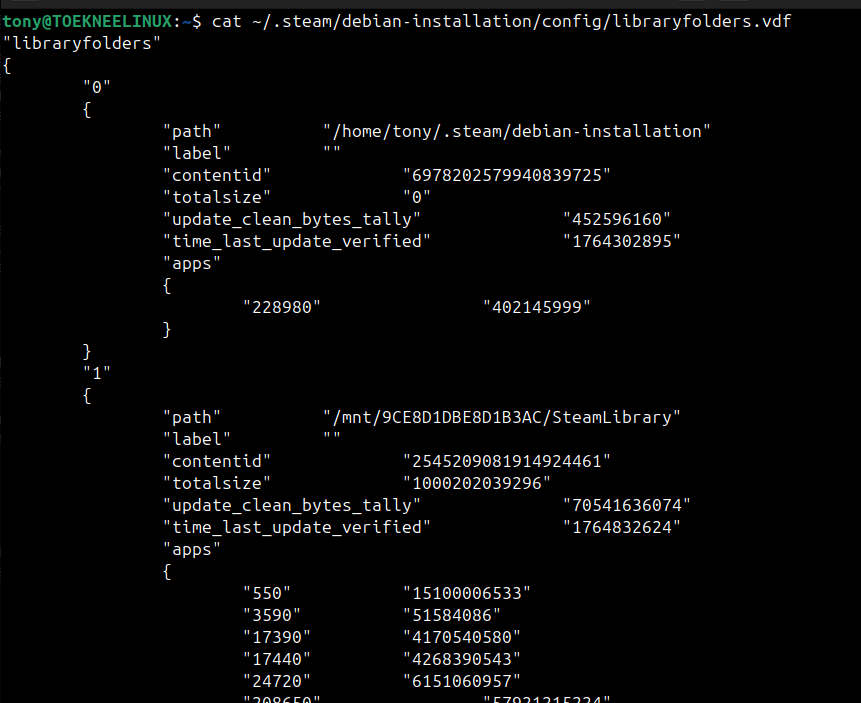
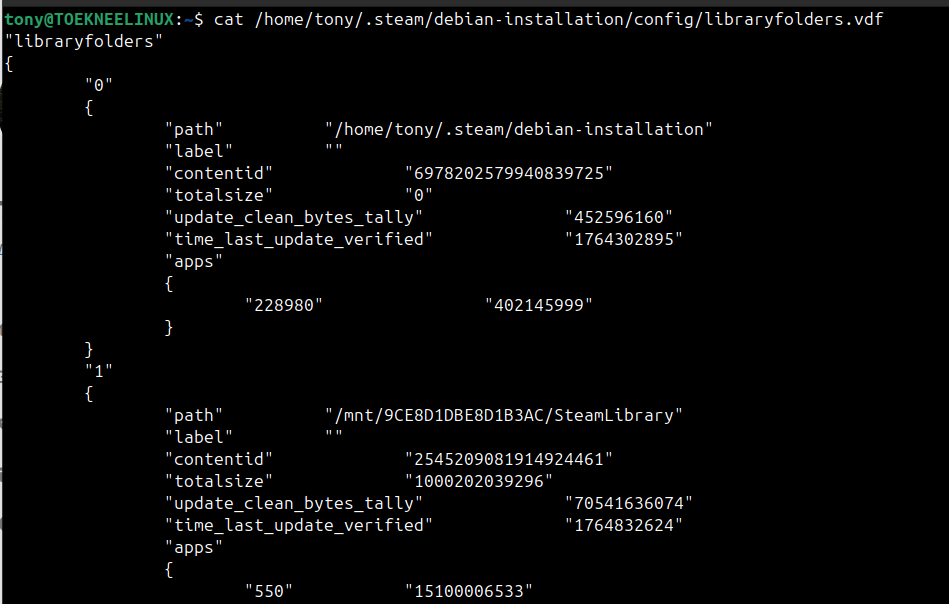
Improve Steam Linux NTFS post with more accurate info

diff --git a/_posts/2025-12-16-ntfs-steam-library.md b/_posts/2025-12-16-ntfs-steam-library.md
@@ -1,6 +1,6 @@
 ---
 # ===== Required =====
-title: "Run Steam Games from Windows drive (NTFS) on Linux (Ubuntu)"
+title: "Run Steam Games on a NTFS disk with Linux"
 date: 2025-12-16 22:00:00 -0600
 
 # Max 2 levels only
@@ -11,67 +11,90 @@ tags: [Steam, Linux, Windows, Games]
 
 # ===== Chirpy Features =====
 toc: true           # Table of contents
-math: true          # LaTeX equations
-mermaid: true       # Flow diagrams
+math: false          # LaTeX equations
+mermaid: false       # Flow diagrams
 pin: false          # Pin to homepage (true/false)
 
 ---
+## Introduction
+This blog contains diagnose and fix for Steam games stored on a NTFS formatted drive/disk that failed to launch on Linux.
+
+The fix also allow the same Steam games be run in both Linux and Windows (for dual booting system) without reinstalling the games.
 
 ## Background
 In recent updates, Microsoft brought a bunch of new AI features to Windows 11. They are not optional, take a ton of storage and somewhat make windows feel less stable and more bloated. I think Windows is moving toward to become a giant invasive data collecting and ads feeding software than being an Operating System. Not a welcome change in my opinion.
 
-I decided to dual booting Ubuntu 24.04.3 LTS alongside Windows 11 24H2, and gradually migrate away from Windows. One reason why I stick with Windows is the variety of games supported on the platform. But thank to Valve and the advancement of compatibility layer [Proton](https://en.wikipedia.org/wiki/Proton_(software)), many Windows games could be run flawlessly on Linux, high time to try gaming on this platform.
+I decided to dual booting Ubuntu 24.04.3 LTS alongside Windows 11 24H2, as an effort to gradually migrate away from Windows. One reason why I stick with Windows is the variety of games supported on the platform. But thank to Valve and the advancement of compatibility layer [Proton](https://en.wikipedia.org/wiki/Proton_(software)), many Windows games could be run flawlessly on Linux. Time to try them out.
 
 ## Overview
-I have 3 different drives, one for Ubuntu, one for Windows, and one for Steam Games Library (the drive is [NTFS](https://en.wikipedia.org/wiki/NTFS) formatted)
+I have 3 different physical drives in my PC, one for Ubuntu, one for Windows, and one for Steam games library. I was using Windows when I set up the Steam library drive and so the drive is formatted with Windows' default NTFS.
 
-I had:
-- Successfully installed Steam with:  ```sudo apt install steam```
-- Successfully had my games on NTFS drive recognized by Steam.
-- Successfully had Steam automatically install and setup runtime and Proton.
+During set up, I:
+- Successfully installed native Steam with:  ```sudo apt install steam```
+- Successfully had Steam recognize my game drive.
+- Successfully had Steam install and setup Proton and other necessary programs.
+- Successfully get the latest NVIDIA driver installed.
 
-Unfortunately, none of my game would launch out of the box...
+Unfortunately, none of my game would launch ...
 
 ## What is the problem?
-It turns out the NTFS drive is mounted to Ubuntu through [ntfs-3g](https://en.wikipedia.org/wiki/NTFS-3G) driver. Although ntfs-3g provides read and write permission to NTFS partition, it may not have fully support Linux filesystem semantics, including:
-- Executable (+x) permission bits
-- POSIX-compliant symbolic links
-- Case-sensitive paths
+[NTFS](https://en.wikipedia.org/wiki/NTFS) is a native Windows filesystem and enforces Windows naming rules. Windows and Linux use different filename conventions. When Linux creates files or folders that are invalid under Windows naming rules and stores them on a filesystem like NTFS, those files cannot be represented correctly. This can lead to read/write errors or application failures.
 
-Proton requires these features to run Windows games on Linux. The missing Linux semantics may cause Proton to fail to launch the game.
+Steam runs Windows games on Linux through Proton. Proton stores its runtime and configuration files in a folder called ```compatdata```. Because my Steam game library is located on an NTFS drive, Proton also created the ```compatdata``` directory on the NTFS partition.
+
+As a result, Proton attempted to store Linux-style runtime files on NTFS, which caused filesystem incompatibilities and prevented the game from launching.
 
 ## What is the fix?
-We want all executed files on an [EXT4](https://en.wikipedia.org/wiki/Ext4) (Linux native) partition, while keeping large game assets on NTFS.
-We can redirect Steam’s NTFS path to Steam's EXT4 path for execution via a [symlink](https://www.freecodecamp.org/news/symlink-tutorial-in-linux-how-to-create-and-remove-a-symbolic-link/).
+Instead of letting Proton write ```compatdata``` directly to NTFS, we could use [symlink](https://www.freecodecamp.org/news/symlink-tutorial-in-linux-how-to-create-and-remove-a-symbolic-link/) to redirect Proton to write to a ```compatdata``` on Linux [EXT4](https://en.wikipedia.org/wiki/Ext4) partition.
 
-### Identify Steam's paths
+Then do the following **4 steps**.
+
+### 1. Identify Steam's paths
 First we need to search for ```libraryfolders.vdf```, the file contains info on locations of game library folders, by running this command:
 
     find ~/ -type f -name "libraryfolders.vdf"
 
 ![Terminal Screenshot 2](assets/img/find_steam_lib_config.png)
 
-Pick the one under ```config``` folder, then use following command: 
+Pick the one under ```config``` folder, copy it and then use following command: 
     
-    cat ~/.steam/debian-installation/config/libraryfolders.vdf
-
+    cat <path to libraryfolders.vdf>
+    
 ![Terminal Screenshot 2](assets/img/steam_lib_paths.png)
 
 - The Steam's EXT4 path is: ```/home/tony/.steam/debian-installation```
 - The Steam's NTFS path is: ```/mnt/9CE8D1DBE8D1B3AC/SteamLibrary```
 
-### Create Symlink
+### 2. Remove NTFS compatdata folder
+Run this command (you may want to make a back up before remove)
 
-Before create symlink, remove the existing compatdata folder on NTFS (you may want to make a back up before remove):
+    rm -rf <Steam's NTFS path>/steamapps/compatdata
 
-    rm -rf /mnt/9CE8D1DBE8D1AC/SteamLibrary/steamapps/compatdata
+In my case for example:
 
-Then create the symlink:
+```rm -rf /mnt/9CE8D1DBE8D1AC/SteamLibrary/steamapps/compatdata```
 
-    sudo ln -s "/home/tony/.steam/debian-installation/steamapps/compatdata" "mnt/9CE8D1DBE8D1B3AC/SteamLibrary/steamapps"
+### 3. Create EXT4 compatdata folder
+Run this command:
 
-Now when Steam tries to access NTFS path: ```/mnt/9CE8D1DBE8D1AC/SteamLibrary/steamapps/compatdata/<AppID>```. The Linux kernel sees that compatdata is a symlink. It automatically redirects access to the EXT4 path: ```/home/tony/.steam/debian-installation/steamapps/compatdata/<AppID>```. Proton then executes all files on EXT4, where executable permissions, POSIX symlinks, and case-sensitive paths work correctly. NTFS now contains only the symlink, so its filesystem limitations no longer interfere with game execution.
+    mkdir -p <Steam's EXT4 path>/steamapps/compatdata
 
+In my case for example:
+
+```mkdir -p /home/tony/.steam/debian-installation/steamapps/compatdata```
+
+
+### 4. Create Symlink
+Run this command:
+
+    sudo ln -s "<Steam's EXT4 path>/steamapps/compatdata" "<Steam's NTFS path>/steamapps"
+
+In my case for example:
+
+```sudo ln -s "/home/tony/.steam/debian-installation/steamapps/compatdata" "mnt/9CE8D1DBE8D1B3AC/SteamLibrary/steamapps"```
+
+## Conclude
+That is it, the games should be launching. Now when Steam tries to access NTFS path: ```/mnt/9CE8D1DBE8D1AC/SteamLibrary/steamapps/compatdata```. The Linux kernel sees that ```compatdata``` is a symlink. It automatically redirects access to the EXT4 path: ```/home/tony/.steam/debian-installation/steamapps/compatdata```. Proton then executes all files on EXT4 normally. NTFS now contains only the symlink, so its filesystem limitations no longer interfere with game execution.
 
 A running game demo:
 
